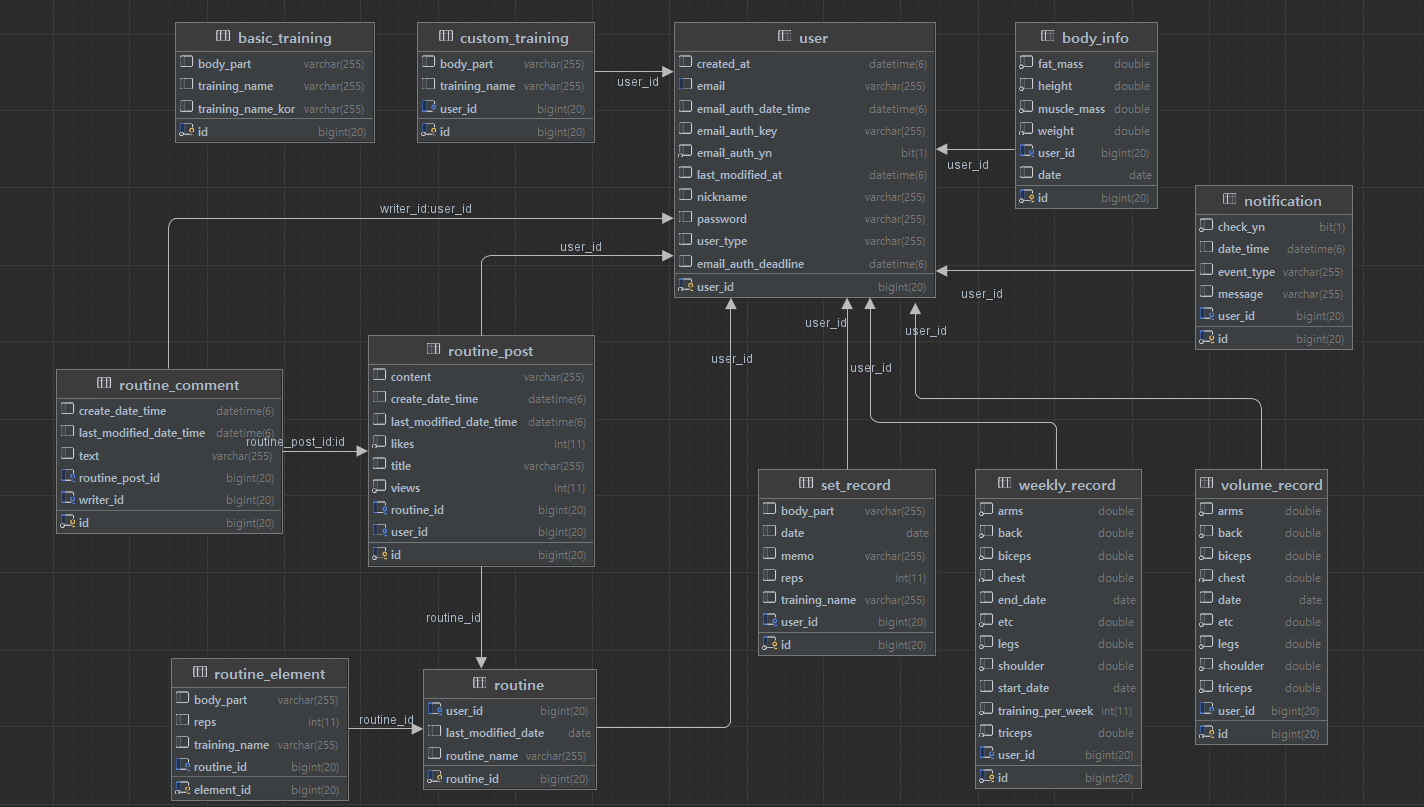
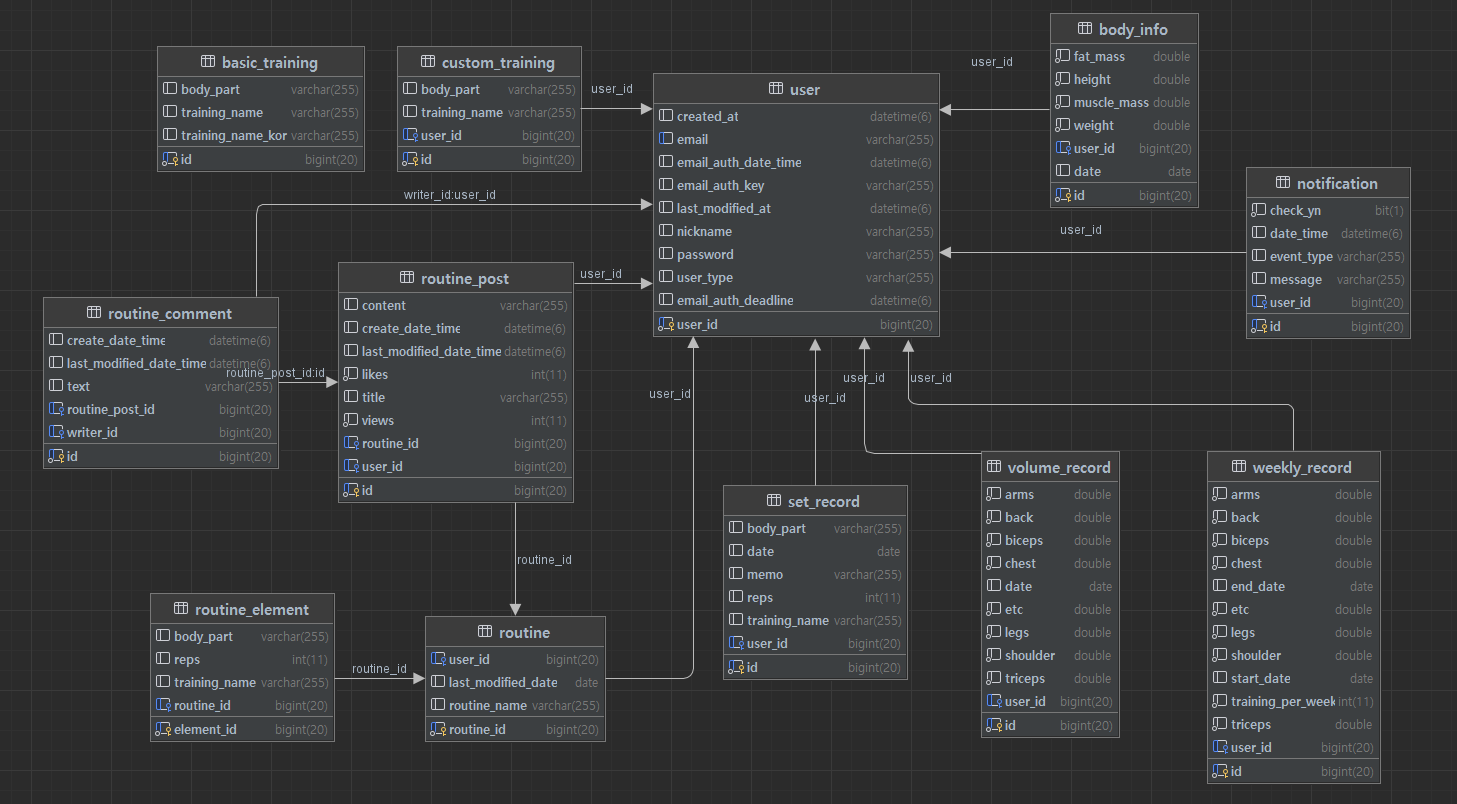
FIX: BodyPart.ABS 가 삭제된 것 복구, Routine Builder가 List에 적용되던 것 수정, ERD에 email_auth_yn 필드가 남아있던 것 수정

diff --git a/src/main/java/com/example/fitnessrecord/domain/routine/persist/Routine.java b/src/main/java/com/example/fitnessrecord/domain/routine/persist/Routine.java
@@ -23,7 +23,6 @@ import lombok.Setter;
 @Setter
 @AllArgsConstructor
 @NoArgsConstructor
-@Builder
 @Entity
 public class Routine {
 
@@ -43,4 +42,11 @@ public class Routine {
   @OneToMany(mappedBy = "routine", cascade = CascadeType.ALL, orphanRemoval = true)
   private List<RoutineElement> list = new ArrayList<>();
 
+  @Builder
+  private Routine(Long id, User user, String routineName, LocalDate lastModifiedDate) {
+    this.id = id;
+    this.user = user;
+    this.routineName = routineName;
+    this.lastModifiedDate = lastModifiedDate;
+  }
 }

diff --git a/src/main/java/com/example/fitnessrecord/global/social/login/kakao/model/KakaoProfile.java b/src/main/java/com/example/fitnessrecord/global/social/login/kakao/model/KakaoProfile.java
@@ -44,7 +44,6 @@ public class KakaoProfile {
             .email(kakaoProfile.getEmail())
             .password(encPassword)
             .nickname(kakaoProfile.getNickname())
-            .emailAuthYn(true)
             .emailAuthDateTime(LocalDateTime.now())
             .userType(UserType.KAKAO)
             .createdAt(LocalDateTime.now())

diff --git a/src/main/java/com/example/fitnessrecord/domain/training/common/type/BodyPart.java b/src/main/java/com/example/fitnessrecord/domain/training/common/type/BodyPart.java
@@ -12,6 +12,7 @@ public enum BodyPart {
   SHOULDER("어깨(Shoulder)"),
   BICEPS("이두(Biceps)"),
   TRICEPS("삼두(Triceps)"),
+  ABS("복근(Abs)"),
   ETC("기타(Etc)");
 
   private final String description;

diff --git a/README.md b/README.md
@@ -24,7 +24,7 @@
 - 이메일, 비밀 번호를 통해 로그인 할 수 있다.
 - 이메일로 회원가입 할 수 있다.`UserType.BASIC`
   - 회원가입 시 인증 메일이 발송되고, 메일 인증을 완료되어야지만 서비스를 이용할 수 있다.
-  - 이메일 발송 시에 5초 정도의 시간이 소요되므로 비동기적으로 처리한다.
+  - 이메일 발송 시에 5초 정도의 시간이 소요되므로 `비동기`로 처리한다.
   - 이메일 인증 기한은 24시간이다. 기한 내에 인증하지 못한 경우 새로운 인증 키로 재발송한다.
 
 ### 소셜 회원
@@ -42,22 +42,22 @@
 (프론트에서 회원 몸 상태 변화 그래프를 보여줄 때 사용)
 
 ## 운동 종목 (카테 고리)
-- [x] 기본적으로 서비스에서 제공하는 운동 종목`BASIC_TRAINING 테이블` 존재
+- 기본적으로 서비스에서 제공하는 운동 종목`BASIC_TRAINING 테이블` 존재
   - ADMIN 권한을 가진 유저는 BasicTraining을 CRUD 할 수 있다.
-- [ ] 이외의 회원 개인 별 커스텀 운동 종목 추가 가능
-  - [ ] `CUSTOM_TRAINING 테이블`에서 관리한다.
+- 이외의 회원 개인 별 커스텀 운동 종목 추가 가능
+  - `CUSTOM_TRAINING 테이블`에서 관리한다.
 
 ## 회원 운동 기록
 ### 회원 별 운동 기록 제공
 - [ ] 회원은 자신의 운동 내역을 기록할 수 있다.
   - [ ] 운동 내역은 세트별로 기록한다.
   - [ ] 기록한 내용은 날짜 별로 확인할 수 있다.
-- [ ] 운동 종목 별 최고 기록 갱신 시 알림 기능 `sse/polling/websocket 등`
-- [ ] 하루 운동이 끝나면 `가슴/등/하체/어깨/이두/삼두/기타`의 대분류로 운동 volume을 기록한다. `Scheduling`
-- [ ] 한 주가 끝나면 주간 운동 기록을 유저 별로 따로 저장한다. `Scheduling`
+- [ ] 운동 종목 별 최고 기록 갱신 시 알림 기능 `(sse/polling/websocket 등 예정)`
+- [ ] 하루 운동이 끝나면 `가슴/등/하체/어깨/이두/삼두/기타`의 대분류로 운동 volume을 기록한다. `VOLUME_RECORD`
+- [ ] 한 주가 끝나면 주간 운동 기록을 유저 별로 따로 저장한다. `WEEKLY_RECORD`
 
 ### 회원 별 운동 통계 제공
-- [ ] 주간, 월간 운동 기록, 통계를 제공한다.
+- [ ] 일별, 주별 운동 기록, 통계를 제공한다.
   - [ ] 운동 부위 별 volume 주간 통계 제공
 
 ## 루틴 만들기
